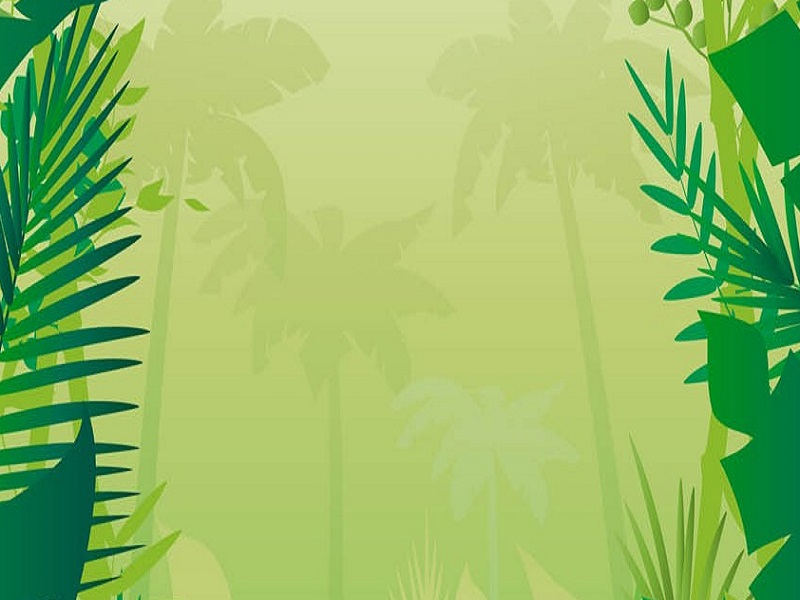
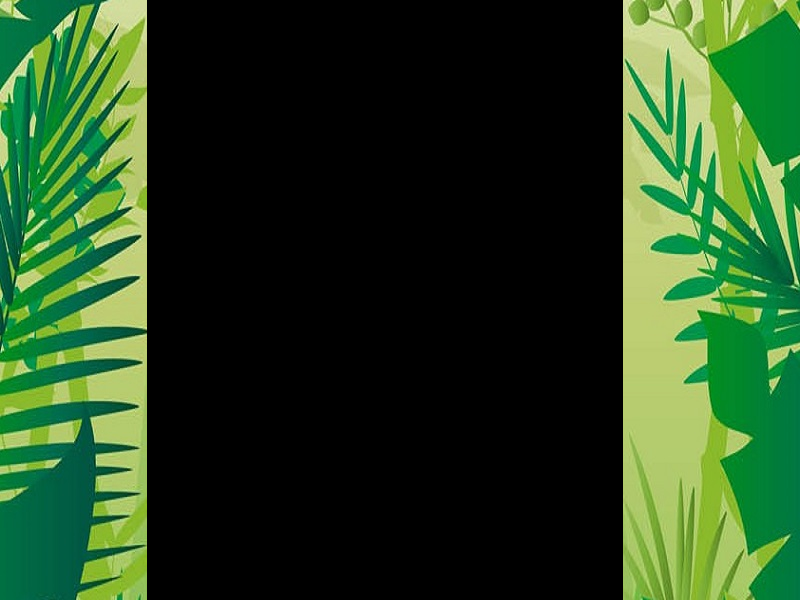
Finished main_menu, background and moveable objects

diff --git a/melonStrike/game.py b/melonStrike/game.py
@@ -1,26 +1,71 @@
-import pygame
 from constants import *
-game_font = pygame.font.match_font('arial')
+import os
+import random
+game_folder = os.path.dirname(__file__)
+image_folder = os.path.join(game_folder, "assets")
+pygame.init()
+screen = pygame.display.set_mode((SCREEN_WIDTH, SCREEN_HEIGHT))
+clock = pygame.time.Clock()
+pygame.display.set_caption("Melon Strike")
+pygame.display.update()
 
 
-def draw_text(surf, text, size, x, y):
-    font = pygame.font.Font(game_font, size)
-    text_surface = font.render(text, True, WHITE)
-    text_rect = text_surface.get_rect()
-    text_rect.midtop = (x, y)
-    surf.blit(text_surface, text_rect)
+class Background(pygame.sprite.Sprite):
+    def __init__(self):
+        pygame.sprite.Sprite.__init__(self)
+        self.image = pygame.image.load(os.path.join(image_folder, "jungle_bg_.png")).convert()
+        self.rect = self.image.get_rect()
 
 
-def main():
-    pygame.init()
-    screen = pygame.display.set_mode((SCREEN_WIDTH, SCREEN_HEIGHT))
-    clock = pygame.time.Clock()
-    pygame.display.update()
+class Player(pygame.sprite.Sprite):
+    def __init__(self):
+        pygame.sprite.Sprite.__init__(self)
+        self.image = pygame.image.load(os.path.join(image_folder, "watermelon_.png")).convert()
+        self.image = pygame.transform.scale(self.image, (50, 38))
+        self.image.set_colorkey(WHITE)
+        self.rect = self.image.get_rect()
+        self.rect.center = (SCREEN_WIDTH / 2, SCREEN_HEIGHT - 30)
 
-    pygame.display.set_caption("Melon smash")
-    main_menu = pygame.image.load("jungle_bg_main.png")
-    main_menu_rect = main_menu.get_rect()
-    screen.blit(main_menu, main_menu_rect)
+    def move_left(self):
+        self.rect.x = self.rect.x - 5
+        if self.rect.x < 150:
+            self.rect.x = 150
+
+    def move_right(self):
+        self.rect.x = self.rect.x + 5
+        if self.rect.x > 570:
+            self.rect.x = 570
+
+
+class Enemies(pygame.sprite.Sprite):
+    def __init__(self):
+        pygame.sprite.Sprite.__init__(self)
+        self.image = pygame.image.load(os.path.join(image_folder, "spear_1.png")).convert()
+        self.image = pygame.transform.scale(self.image, (100, 200))
+        self.image.set_colorkey(BLACK)
+        self.rect = self.image.get_rect()
+        self.rect.x = random.randrange(100, 570)
+        self.rect.y = random.randrange(-150, -100)
+        self.speed_y = random.randrange(2, 10)
+        self.speed_x = random.randrange(-3, 3)
+
+    def update(self):
+
+        self.rect.y += self.speed_y
+        self.rect.y += 3
+        if self.rect.top > SCREEN_HEIGHT:
+            self.rect.bottom = 0
+            self.rect.x = random.randrange(100, 570)
+            self.rect.y = random.randrange(-100, -40)
+            self.speed_y = random.randrange(1, 5)
+
+
+def main_menu():
+    global screen
+
+    game_menu = pygame.image.load(os.path.join(image_folder, "jungle_bg_main.png")).convert()
+    game_menu_rect = game_menu.get_rect()
+    screen.blit(game_menu, game_menu_rect)
     pygame.display.update()
     running = True
     while running:
@@ -39,26 +84,62 @@ def main():
             draw_text(screen, "or [Esc] To Quit", 30, int(SCREEN_WIDTH / 2), int((SCREEN_HEIGHT / 2) + 40))
             pygame.display.update()
 
-    draw_text(screen, "GET READY!", 40, SCREEN_WIDTH / 2, SCREEN_HEIGHT / 2)
+    screen.fill(BLACK)
+    draw_text(screen, "ARE YOU READY!", 40, SCREEN_WIDTH / 2, SCREEN_HEIGHT / 2)
     pygame.display.update()
 
-    pygame.display.set_caption("Melon Strike")
-    background = pygame.image.load("jungle_bg_.png")
-    background_rect = background.get_rect()
-    screen.blit(background, background_rect)
-    pygame.display.update()
+
+def draw_text(surf, text, size, x, y):
+    font = pygame.font.Font(GAME_FONT, size)
+    text_surface = font.render(text, True, WHITE)
+    text_rect = text_surface.get_rect()
+    text_rect.midtop = (x, y)
+    surf.blit(text_surface, text_rect)
+
+
+def main():
 
     running = True
+    menu_display = True
+    while running:
+        if menu_display:
+            main_menu()
+            pygame.time.wait(3000)
+            break
+
+    sprites_list = pygame.sprite.Group()
+    pygame.display.update()
+    background = Background()
+    sprites_list.add(background)
+    player = Player()
+    sprites_list.add(player)
+    sprites_list.update()
+    enemies_list = []
+    for _ in range(10):
+        enemies = Enemies()
+        enemies_list.append(enemies)
+    sprites_list.add(enemies_list)
+
+    running = True
+    clock = pygame.time.Clock()
     while running:
         for event in pygame.event.get():
-            if event.type == pygame.QUIT:  # If x at the top gets pressed, quit game
+            if event.type == pygame.QUIT:
                 running = False
-            if event.type == pygame.KEYDOWN:  # If escape button gets pressed, quit game
-                if event.key == pygame.K_ESCAPE:
-                    running = False
+        keys = pygame.key.get_pressed()
+        if keys[pygame.K_LEFT]:
+            player.move_left()
+        if keys[pygame.K_RIGHT]:
+            player.move_right()
 
-    pygame.display.update()
-    clock.tick(60)
+        sprites_list.update()
+        screen.fill(BLACK)
+        sprites_list.draw(screen)
+
+
+        pygame.display.update()
+        clock.tick(60)
+
 
 if __name__ == "__main__":
     main()

diff --git a/melonStrike/melon.py b/melonStrike/melon.py
@@ -1,6 +1,29 @@
-def main():
-    pass
+import pygame
+from constants import *
 
 
-if __name__ == "__main__":
-    main()
+class Melon(pygame.sprite.Sprite):
+    def __init__(self):
+        pygame.sprite.Sprite().__init__(self)
+        self.image = pygame.Surface((30, 30))
+        self.image.fill(BLACK)
+        self.rect = self.image.get_rect()
+        self.rect.center = SCREEN_WIDTH / 2
+        self.rect.bottom = SCREEN_HEIGHT - 10
+
+
+    def move_left(self, pixels):
+        self.x_step -= pixels
+        if self.x_step < 0:
+            self.x_step = 0
+
+    def move_right(self, pixels):
+        self.x_step += pixels
+        if self.x_step > 770:
+            self.x_step = 770
+
+
+
+
+
+

diff --git a/melonStrike/constants.py b/melonStrike/constants.py
@@ -1,9 +1,13 @@
+import pygame
+
 SCREEN_WIDTH = 800
 SCREEN_HEIGHT = 600
 FPS = 60
 POWER_UP_TIME = 5000
 BAR_LENGTH = 100
 BAR_HEIGHT = 10
+
+GAME_FONT = pygame.font.match_font('arial')
 
 # Define Colors
 WHITE = (255, 255, 255)
